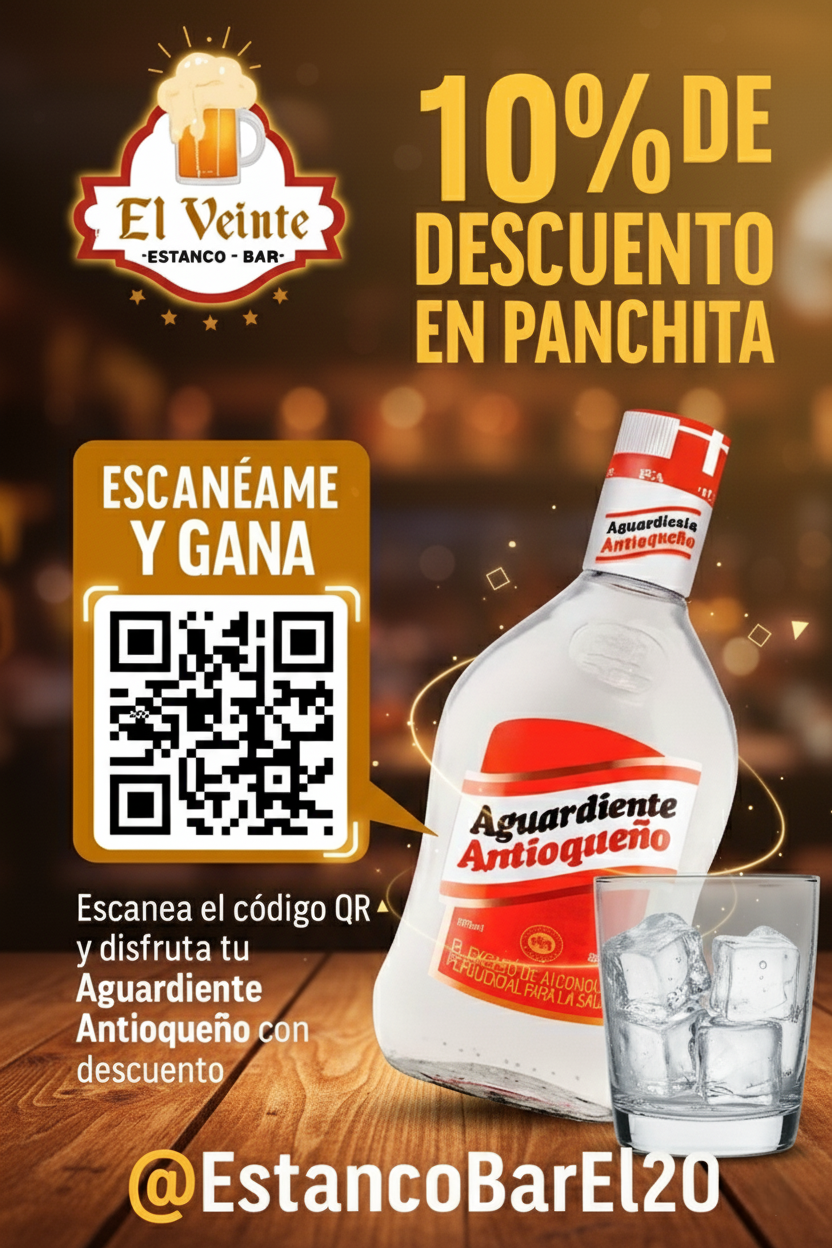
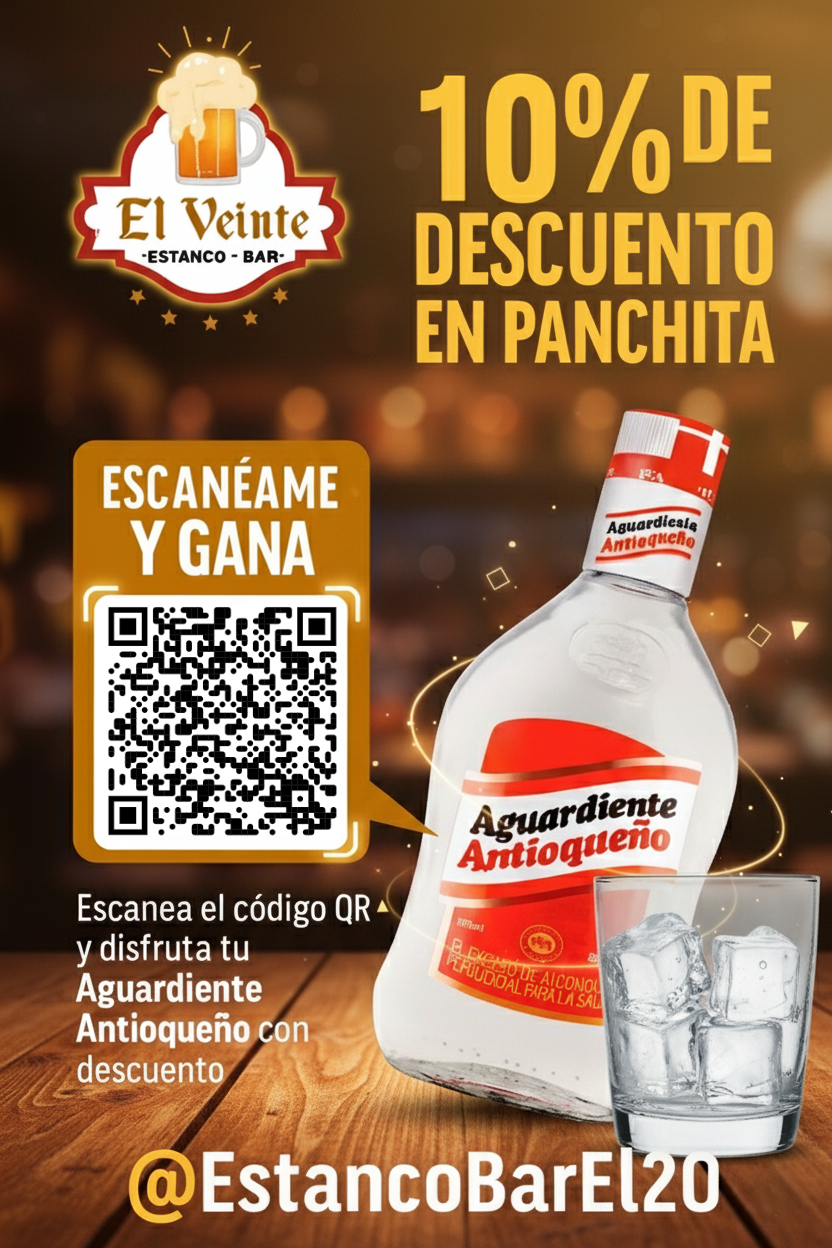
version 2.1

Changed region(s): [[0.125, 0.4688, 0.4062, 0.6875]]

diff --git a/lacurva.html b/lacurva.html
@@ -56,7 +56,7 @@
                 <div class="qr-code-section">
                     <h2>¡Escanea y Conéctate!</h2>
                     <p>Escanea el código QR para obtener tu 15% de descuento en referencias seleccionadas.</p>
-                    <img src="https://api.qrserver.com/v1/create-qr-code/?size=200x200&data=PromoMovil360-InternetLaCurva-15DCTOTECNOLOGIA" alt="Código QR de la promoción de Internet La Curva" class="promo-qr-code">
+                    <img src="imagenes/qrlacurva.jpg" alt="Código QR de la promoción de Internet La Curva" class="promo-qr-code">
                 </div>
             </div>
 

diff --git a/estanco-el20.html b/estanco-el20.html
@@ -56,7 +56,7 @@
                 <div class="qr-code-section">
                     <h2>¡Escanea para disfrutar!</h2>
                     <p>Muestra este código al personal para validar tu descuento.</p>
-                    <img src="https://api.qrserver.com/v1/create-qr-code/?size=200x200&data=PromoMovil360-EstancoEl20-10DCTO" alt="Código QR de la promoción" class="promo-qr-code">
+                    <img src="imagenes/estanco/QRestanco.png" alt="Código QR de la promoción" class="promo-qr-code">
                 </div>
             </div>
 
